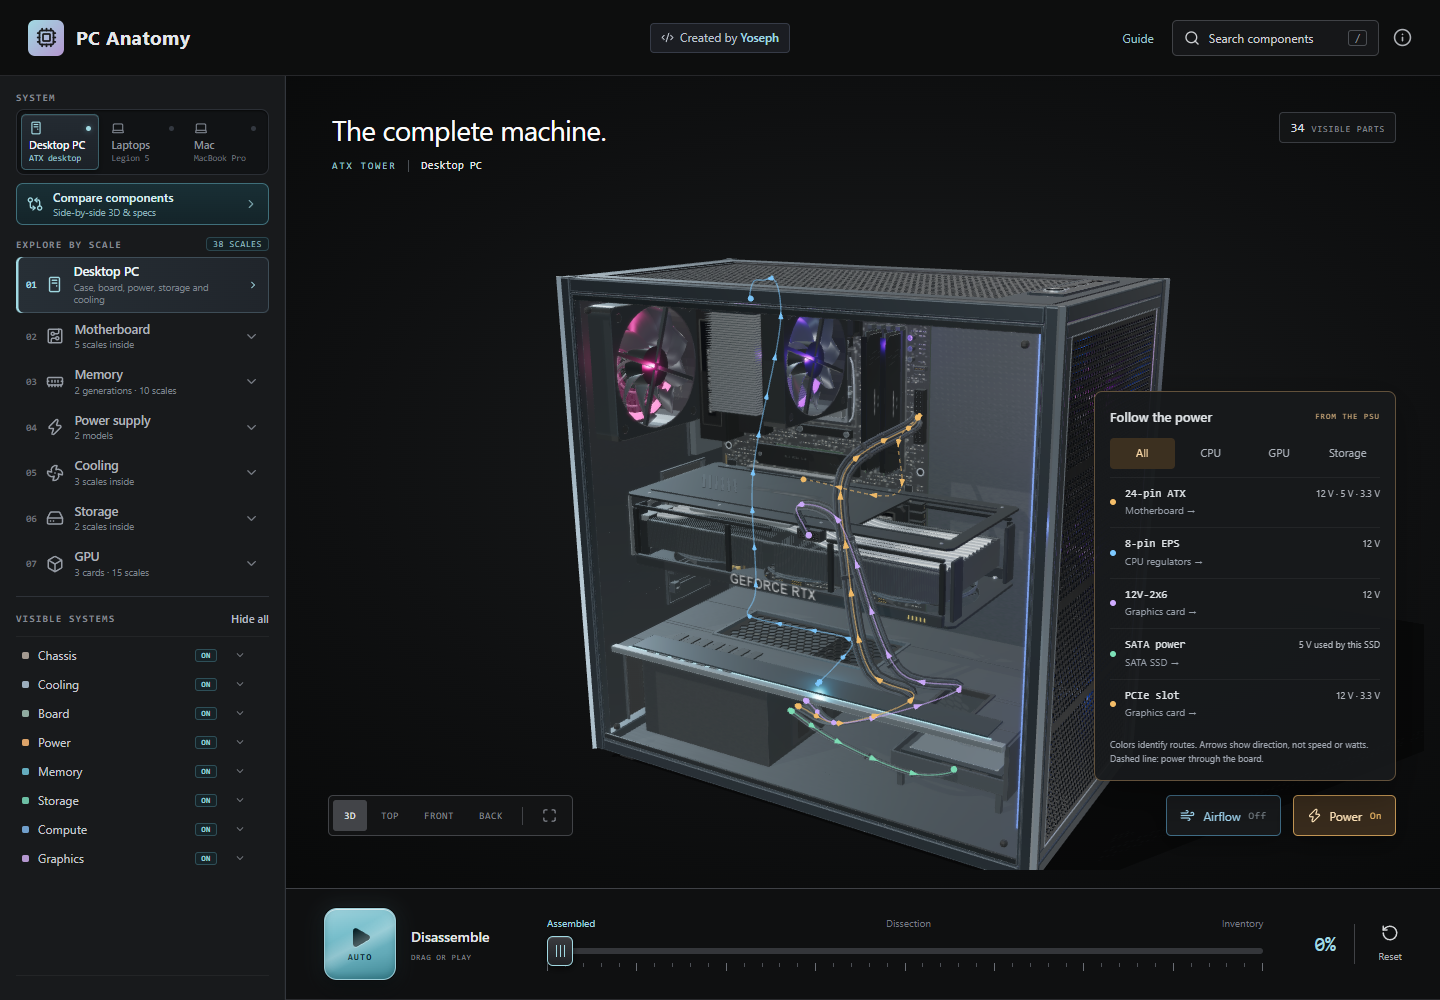
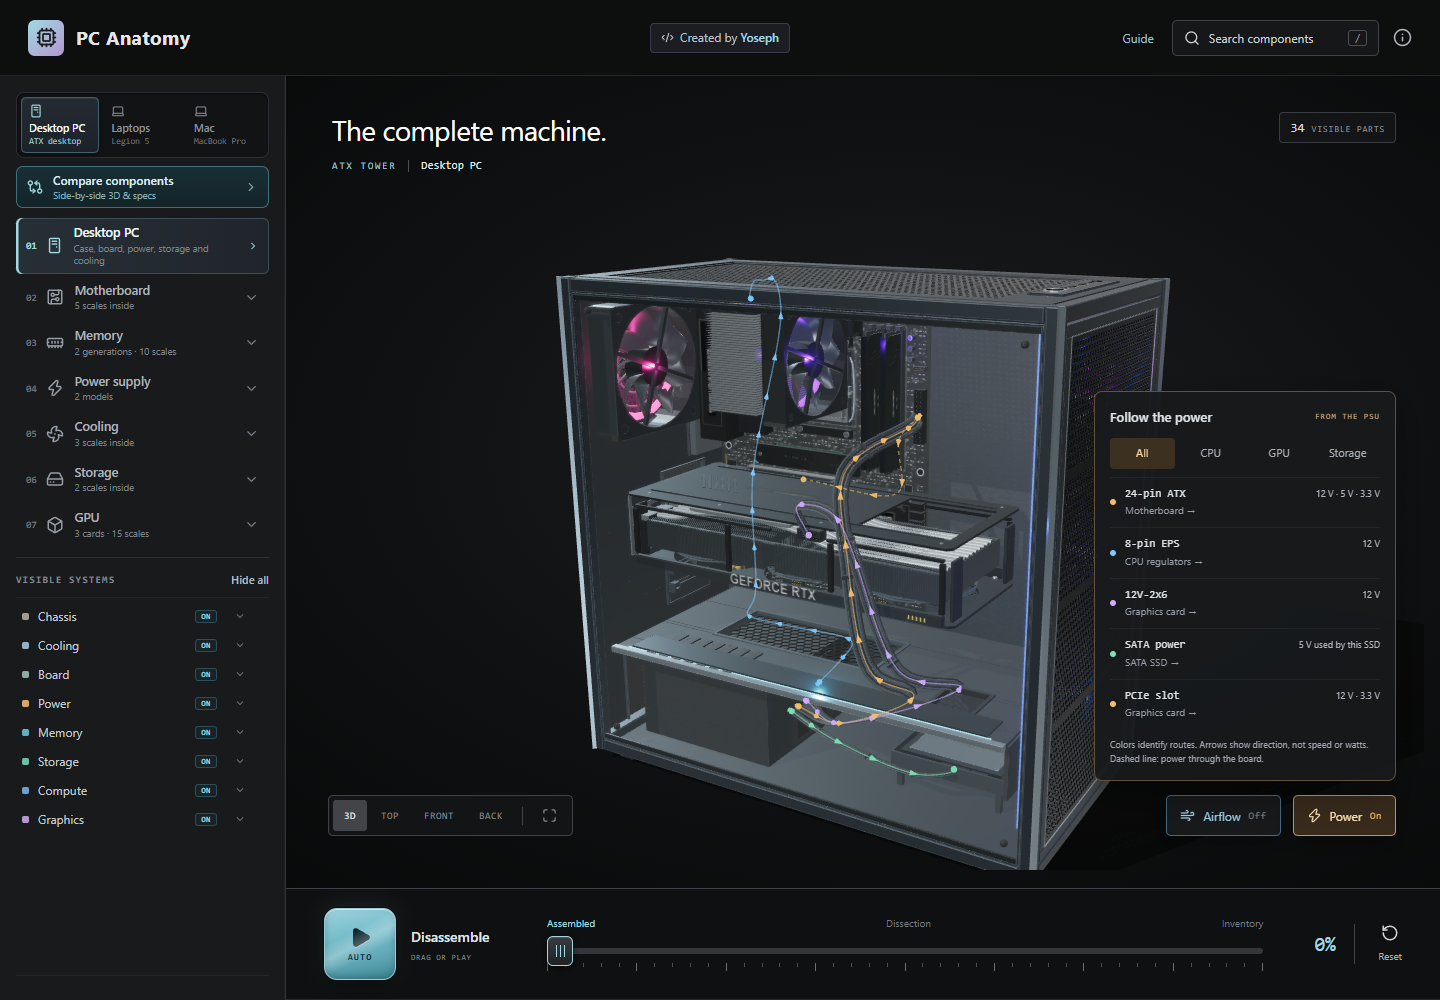
Simplify system picker and scale navigation headings

Changed region(s): [[0.0, 0.093, 0.1875, 0.868], [0.125, 0.651, 0.1562, 0.837], [0.1562, 0.558, 0.1875, 0.62]]

diff --git a/app/scale-nav.tsx b/app/scale-nav.tsx
@@ -134,9 +134,6 @@ export default function ScaleNav({
       >
         <X size={17} />
       </button>
-      <div className="section-heading rail-top-heading">
-        <span>SYSTEM</span>
-      </div>
       <nav className="system-picker" aria-label="Choose a system">
         {systemRoots.map((root) => {
           const Icon = levelIcon[root];
@@ -148,7 +145,6 @@ export default function ScaleNav({
             >
               <span className="system-picker-head">
                 <Icon size={14} />
-                <i className="system-picker-dot" />
               </span>
               <strong>
                 {root === 'pc'
@@ -176,12 +172,6 @@ export default function ScaleNav({
         </span>
         <ChevronRight size={14} />
       </button>
-      <div className="section-heading scale-heading">
-        <span>EXPLORE BY SCALE</span>
-        <span className="section-badge">
-          {systemBranches.reduce((sum, b) => sum + b.levels.length, 1)} scales
-        </span>
-      </div>
       <nav className="scale-navigation" aria-label="Exploration scale">
         <button
           className={level === rootLevel ? 'active' : ''}

diff --git a/app/workbench.css b/app/workbench.css
@@ -321,22 +321,6 @@ a {
   align-items: center;
   margin: 0 0 8px;
 }
-.rail-top-heading {
-  margin: 0 0 6px;
-}
-.scale-heading {
-  margin: 12px 0 6px;
-}
-.section-badge {
-  font: 500 9px monospace;
-  letter-spacing: 0.5px;
-  color: #8cb4bc;
-  background: #142024;
-  border: 1px solid #2b464e;
-  border-radius: 4px;
-  padding: 1px 6px;
-  text-transform: uppercase;
-}
 .section-heading button {
   font:
     500 11px 'Segoe UI',
@@ -360,6 +344,9 @@ a {
   display: flex;
   flex-direction: column;
   gap: 2px;
+}
+.compare-button + .scale-navigation {
+  margin-top: 10px;
 }
 .scale-navigation > button {
   display: flex;
@@ -3681,19 +3668,6 @@ a {
 }
 .system-picker button[aria-pressed='true'] .system-picker-head > svg {
   color: var(--accent-bright);
-}
-.system-picker-dot {
-  width: 5px;
-  height: 5px;
-  border-radius: 50%;
-  background: #333840;
-  transition:
-    background 0.14s ease,
-    box-shadow 0.14s ease;
-}
-.system-picker button[aria-pressed='true'] .system-picker-dot {
-  background: var(--accent-bright);
-  box-shadow: 0 0 6px #79bfccaa;
 }
 .system-picker button > strong {
   display: block;
